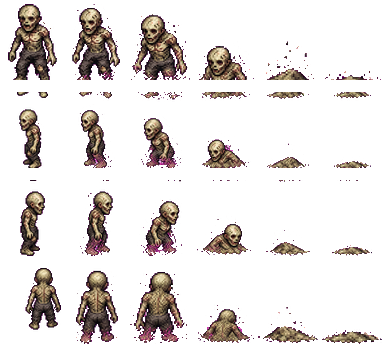
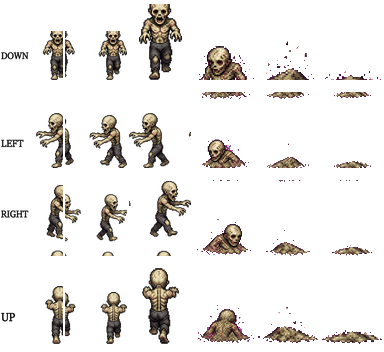
RP7 · Mori · new labeled walk sheet + collision + relocate spawn to Zarvane + accurate hitbox
WALK SHEET · rebaked from user's labeled 4×4 sheet.  Source row order
was UP/LEFT/RIGHT/DOWN; code layout is DOWN/LEFT/RIGHT/UP.  Remapped
during bake so walk frames render facing the correct direction.  Only
walk cols 0-2 replaced; dissolve cols 3-5 preserved from prior sheet.

COLLISION · walkable() now blocks any tile occupied by a LIVING mori.
Player can't phase through them anymore.  Dying / dust-pile mori do
not block · once the death anim starts you can step through.

RELOCATE · seedMalezorWildmarch → seedZarvaneWildmarch (kept old name
as back-compat alias).  Boot check now seeds on Zarvane map entry.
Per Part I story canon [[aov-rp7-story-structure-canon]]:
  · Act I (Malezor / Zarvane / Andrannor) — foot soldiers only, no
    major villains, no outbreak
  · Zarvane is where the Auralands shrine corruption first shows,
    setting up the Netharion Ophira arc
  · Malezor stays clean until the Baelgor siege wave

ACCURATE HITBOX · mori strike frame only damages if player is on the
SAME tile OR the tile DIRECTLY IN FRONT of the mori's facing dir.
Diagonals no longer count.  Matches the arm reach visible in the
attack animation.

Also earlier this turn: wallet panel in Rizer profile shows full
gem bag (8 gem-colored diamonds + counts) under the coin total.
Starter card border now uses sprite primary color, not TYPE_COLORS,
so Volcanut reads orange instead of pale gold.

Changed region(s): [[0.0, 0.3125, 0.5, 1.0], [0.0, 0.0, 0.5, 0.2812]]

diff --git a/rp7b.html b/rp7b.html
@@ -13122,6 +13122,18 @@ function walkable(x, y) {
     if (t === undefined || t === null || t === '') return false;
     return true;
   }
+  // ★ 2026-08-03 · MORI ENEMIES BLOCK MOVEMENT.  A living mori occupying a
+  // tile stops the player from phasing through · dying/dust piles do not
+  // block.  Applies to whichever map the player is currently on.
+  if (typeof game !== 'undefined' && game.player && game.enemies) {
+    const bucket = game.enemies[game.player.mapId];
+    if (bucket) {
+      for (const e of bucket) {
+        if (e.dying) continue;
+        if (e.x === x && e.y === y) return false;
+      }
+    }
+  }
   // ★ 2026-07-30 · Shardshare Collar (V) — Silver Lodge floor loot.
   // Blocks the tile until the player picks it up; after pickup the tile
   // renders as plain floor and stops blocking.
@@ -23974,15 +23986,20 @@ function spawnMori(mapId, x, y, opts) {
     losePocketMs: 0,         // out-of-range accumulator for chase→patrol
   });
 }
-function seedMalezorWildmarch() {
-  const bucket = _enemyBucket('malezor');
-  if (bucket.length > 0) return;   // already seeded
-  // Northern wildmarch edge · a handful clustered so you can find them fast.
-  spawnMori('malezor', 15,  3, { radius: 3 });
-  spawnMori('malezor', 20,  4, { radius: 3 });
-  spawnMori('malezor', 25,  2, { radius: 3 });
-  spawnMori('malezor', 30,  5, { radius: 3 });
+// ★ 2026-08-03 · RELOCATED to Zarvane per Part I story canon (Act II
+// begins in the Auralands · Malezor stays untouched during Act I).
+// Mori outbreak hits Zarvane first because Ophira's shrine-corruption
+// starts there.  Malezor stays clean until the Baelgor siege wave.
+function seedZarvaneWildmarch() {
+  const bucket = _enemyBucket('zarvane');
+  if (bucket.length > 0) return;
+  spawnMori('zarvane', 15,  3, { radius: 3 });
+  spawnMori('zarvane', 20,  4, { radius: 3 });
+  spawnMori('zarvane', 25,  2, { radius: 3 });
+  spawnMori('zarvane', 30,  5, { radius: 3 });
 }
+// Back-compat alias in case any caller still references the old name.
+function seedMalezorWildmarch() { return seedZarvaneWildmarch(); }
 function tickEnemies(dt) {
   if (!game.player || game.mode !== 'overworld') return;
   const mapId = game.player.mapId;
@@ -24026,9 +24043,19 @@ function tickEnemies(dt) {
       // Deal damage EXACTLY once when we cross the strike-frame threshold.
       if (!e.attackStruck && e.attackMs >= MORI_ATTACK_STRIKE_MS) {
         e.attackStruck = true;
-        const dxNow = Math.abs(e.x - game.player.x);
-        const dyNow = Math.abs(e.y - game.player.y);
-        if (Math.max(dxNow, dyNow) <= MORI_ATTACK_RANGE) {
+        // ★ 2026-08-03 · Accurate hitbox · only damage if player is in the
+        // tile DIRECTLY IN FRONT of the mori (respect its facing dir), OR
+        // on the SAME tile.  Diagonals no longer count · matches the arm
+        // reach visible in the swing frames.
+        const dxNow = game.player.x - e.x;
+        const dyNow = game.player.y - e.y;
+        const sameTile = (dxNow === 0 && dyNow === 0);
+        const facingHit =
+          (e.dir === 'right' && dxNow ===  1 && dyNow === 0) ||
+          (e.dir === 'left'  && dxNow === -1 && dyNow === 0) ||
+          (e.dir === 'down'  && dyNow ===  1 && dxNow === 0) ||
+          (e.dir === 'up'    && dyNow === -1 && dxNow === 0);
+        if (sameTile || facingHit) {
           const h = game.player.hurtState;
           if (!h || !h.active) takeHitPlayer(MORI_TOUCH_DMG, 0, 0);
         }
@@ -24645,12 +24672,37 @@ function openRizerProfile() {
     <!-- ★ 2026-08-03 · WALLET · coins moved out of the HUD and into the Rizer
          profile.  Clicking opens the Merchant's Ledger (formerly the HUD
          coin badge's action) for the full purchase history. -->
-    <div onclick="openMerchantLedger()" title="Open the Merchant's Ledger" style="padding:10px; background:linear-gradient(90deg, rgba(232,180,72,0.18), rgba(232,180,72,0.06) 60%, rgba(20,10,40,0.10)); border:1px solid var(--border-gold); border-radius:4px; cursor:pointer; display:flex; align-items:center; justify-content:space-between; transition:background 120ms;" onmouseover="this.style.background='linear-gradient(90deg, rgba(232,180,72,0.28), rgba(232,180,72,0.10) 60%, rgba(20,10,40,0.14))'" onmouseout="this.style.background='linear-gradient(90deg, rgba(232,180,72,0.18), rgba(232,180,72,0.06) 60%, rgba(20,10,40,0.10))'">
-      <div>
-        <div style="font-family:var(--font-display); font-size:10px; color:var(--mist); letter-spacing:0.20em;">WALLET</div>
-        <div style="font-family:var(--font-display); font-size:20px; color:var(--gold-bright); letter-spacing:0.14em; margin-top:2px;">¢ ${p.coins || 0}</div>
+    <!-- ★ 2026-08-03 · WALLET now shows COINS + full GEM BAG · gems are
+         both currency (sellable at merchant) AND raw material (convertible
+         to shards at the Science Station device for Zyrex stat boosts,
+         once built). -->
+    <div onclick="openMerchantLedger()" title="Open the Merchant's Ledger" style="padding:10px; background:linear-gradient(90deg, rgba(232,180,72,0.18), rgba(232,180,72,0.06) 60%, rgba(20,10,40,0.10)); border:1px solid var(--border-gold); border-radius:4px; cursor:pointer; transition:background 120ms;" onmouseover="this.style.background='linear-gradient(90deg, rgba(232,180,72,0.28), rgba(232,180,72,0.10) 60%, rgba(20,10,40,0.14))'" onmouseout="this.style.background='linear-gradient(90deg, rgba(232,180,72,0.18), rgba(232,180,72,0.06) 60%, rgba(20,10,40,0.10))'">
+      <div style="display:flex; align-items:center; justify-content:space-between;">
+        <div>
+          <div style="font-family:var(--font-display); font-size:10px; color:var(--mist); letter-spacing:0.20em;">WALLET</div>
+          <div style="font-family:var(--font-display); font-size:20px; color:var(--gold-bright); letter-spacing:0.14em; margin-top:2px;">¢ ${p.coins || 0}</div>
+        </div>
+        <div style="font-family:var(--font-display); font-size:10px; color:var(--gold-bright); letter-spacing:0.16em; opacity:0.75;">▸ LEDGER</div>
       </div>
-      <div style="font-family:var(--font-display); font-size:10px; color:var(--gold-bright); letter-spacing:0.16em; opacity:0.75;">▸ LEDGER</div>
+      ${(() => {
+        const bag = p.gemBag || {};
+        const total = Object.values(bag).reduce((a,b) => a+(b||0), 0);
+        const gemCols = { red:'#e02830', blue:'#2a80e8', green:'#28b048', yellow:'#f0c020',
+                          white:'#e0e8f0', orange:'#e07020', purple:'#a848e0', black:'#3a3a48' };
+        const rows = ['red','blue','green','yellow','white','orange','purple','black'].map(t => `
+          <div style="display:flex; align-items:center; gap:4px; padding:3px 6px; background:rgba(10,6,20,0.6); border:1px solid rgba(232,200,120,0.25); border-radius:3px; min-width:52px;">
+            <div style="width:8px; height:12px; background:${gemCols[t]}; border:1px solid rgba(0,0,0,0.6); clip-path:polygon(50% 0%,100% 25%,100% 75%,50% 100%,0% 75%,0% 25%);"></div>
+            <div style="font-family:var(--font-display); font-size:11px; color:var(--ivory); letter-spacing:0.08em;">${bag[t] || 0}</div>
+          </div>`).join('');
+        return `
+        <div style="margin-top:8px; padding-top:8px; border-top:1px solid rgba(232,200,120,0.25);">
+          <div style="display:flex; align-items:baseline; justify-content:space-between; margin-bottom:6px;">
+            <div style="font-family:var(--font-display); font-size:10px; color:var(--mist); letter-spacing:0.20em;">GEM BAG · ${total}</div>
+            <div style="font-family:var(--font-display); font-size:9px; color:var(--mist); letter-spacing:0.12em; opacity:0.6; font-style:italic;">craft SHARDS at Science Station</div>
+          </div>
+          <div style="display:flex; flex-wrap:wrap; gap:4px;">${rows}</div>
+        </div>`;
+      })()}
     </div>
     <div style="display:grid; grid-template-columns:1fr 1fr; gap:8px;">
       <div style="padding:8px; background:rgba(20,10,40,0.20); border:1px solid var(--border-soft); border-radius:4px;">
@@ -27955,7 +28007,12 @@ function renderStarterScreen() {
     const card = document.createElement('div');
     card.className = 'starter-card';
     card.tabIndex = 0;
-    card.style.setProperty('--r-accent', TYPE_COLORS[s.type]);
+    // ★ 2026-08-03 · Accent uses the sprite's primary palette color so the
+    // card border matches what the player actually sees (verdanix green /
+    // otterlin blue / volcanut orange).  TYPE_COLORS[Aura] is pale gold,
+    // which mismatched volcanut's molten-orange body.
+    const _spritePrimary = (s.sprite && s.sprite[0]) || TYPE_COLORS[s.type];
+    card.style.setProperty('--r-accent', _spritePrimary);
     card.innerHTML = `
       <canvas class="starter-sprite" width="72" height="72"></canvas>
       <div class="starter-name">${s.name}</div>
@@ -29508,8 +29565,9 @@ function loop(now) {
     if (typeof tickGems     === 'function') tickGems(dt);
     if (typeof resolveAttackHit === 'function') resolveAttackHit();
     // Seed Malezor mori on entry (idempotent · won't double-spawn).
-    if (game.player.mapId === 'malezor' && typeof seedMalezorWildmarch === 'function') {
-      seedMalezorWildmarch();
+    // ★ 2026-08-03 · Mori outbreak now seeds in ZARVANE, not Malezor.
+    if (game.player.mapId === 'zarvane' && typeof seedZarvaneWildmarch === 'function') {
+      seedZarvaneWildmarch();
     }
   }
   if (game.mode !== 'title' && game.mode !== 'starter') renderMap();
